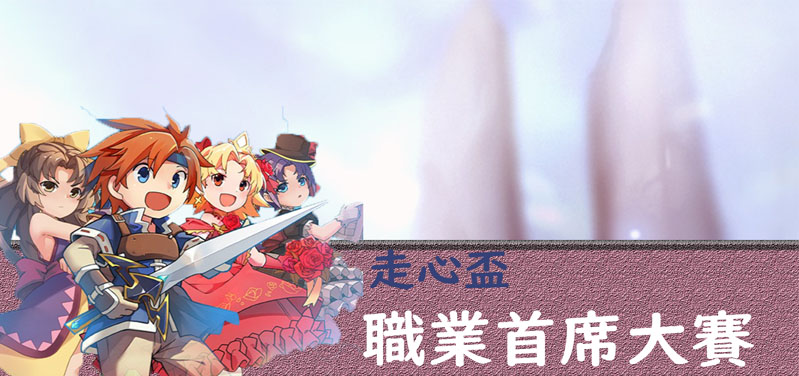
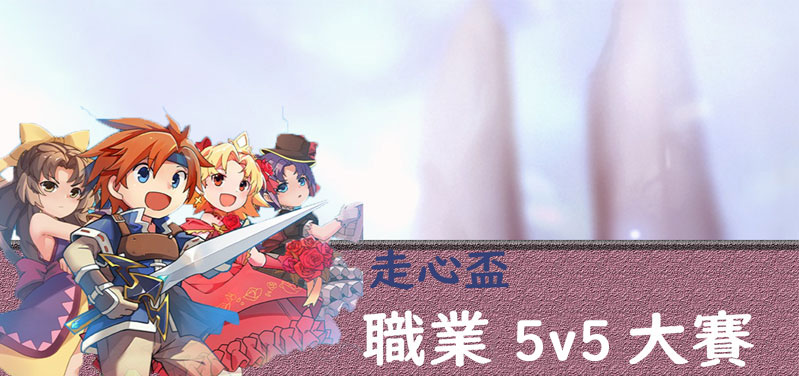
5V5

Changed region(s): [[0.6008, 0.8191, 0.781, 1.0]]

diff --git a/html/projectIntroduction.html b/html/projectIntroduction.html
@@ -64,23 +64,29 @@
 
         <!-- 獎項 -->
         <div class="container borderSunglow text-left mt-5">
-            <h3 class="textSize30">走心盃職業賽流程</h3>
+            <h3 class="textSize30">⾛⼼盃55賽</h3>
         </div>
 
         <div class="container mt-3 table-responsive">
             <p>
-                <h2> 比賽場地：8s競技場</h2>
+                <h2> 比賽場地：7s競技場</h2>
                 <br><br>
-                <h2> 比賽為雙淘汰賽一場勝負，冠軍賽則為三戰兩勝
-                    （雙敗淘汰賽負者出局，但負一場後並未被淘汰，只是跌入負者組，在負者組再負者(即總共已負兩場)才被淘汰。）</h2>
+                <h2> 輕量級-111年10⽉29⽇（六）晚上20：30報到9：00開打 <br><br>
+
+                    重量級-111年10⽉30⽇（⽇）晚上18：30報到7：00開打</h2>
                 <br><br>
-                <h2> 9月17日（六） </h2>
+                比賽⽅式將會以最終參賽⼈數⽽決定，單循環或雙淘汰單場決勝做為主要安排
                 <br><br>
+                比賽⽅式
+                此次賽事將為單循環賽，及每隊將和各隊都有⼀次比賽，最後得分最多為冠軍
+                若有兩隊同分即加賽，會由網站形式公佈哪隊先打
+                <br><br>
+
                 <a class="btn btn-success"
-                    href="https://www.figma.com/file/G7tva6rEoFx3MT1eyduDBk/%E8%B5%B0%E5%BF%83%E7%9B%83%E9%A6%96%E5%B8%AD%E5%A4%A7%E8%B3%BD">即時賽程及分組請點我</a>
+                    href="https://www.figma.com/file/EuMyVpXEaL9vz35Me3ty3g/%E8%B5%B0%E5%BF%83%E7%9B%835V5-%E5%A4%A7%E8%B3%BD">即時賽程及分組請點我</a>
             </p>
 
-            <h3 class="mt-2 text-danger">晚上18：30輕量組職業開始報到19：00開始比賽</h3>
+            <h3 class="mt-2 text-danger"></h3>
             <table class="table table-striped table-hover">
                 <tr class="fw-bolder sunglowColor">
                     <th>時間</th>
@@ -88,32 +94,32 @@
                 </tr>
                 <tr>
                     <td>19：00</td>
-                    <td>第一場輕量特級廚師競賽</td>
+                    <td></td>
                 </tr>
                 <tr>
                     <td>19：17</td>
-                    <td>第二場輕量騎士</td>
+                    <td></td>
                 </tr>
                 <tr>
                     <td>19：35</td>
-                    <td>5第三場輕量劍士</td>
+                    <td></td>
                 </tr>
                 <tr>
                     <td>19：55</td>
-                    <td>第四場輕量傳教</td>
+                    <td></td>
                 </tr>
                 <tr>
                     <td>20：35</td>
-                    <td>第五場輕量重裝混合賽</td>
+                    <td></td>
                 </tr>
                 <tr>
                     <td>21：10</td>
-                    <td>第六場輕量亂鬥賽</td>
+                    <td></td>
                 </tr>
             </table>
 
 
-            <h3 class="mt-3 text-danger">晚上21：30重量級選手開始報到</h3>
+            <h3 class="mt-3 text-danger"></h3>
             <table class="table table-striped table-hover">
                 <tr class="fw-bolder sunglowColor">
                     <th>時間</th>
@@ -121,35 +127,35 @@
                 </tr>
                 <tr>
                     <td>22：02</td>
-                    <td>第七場重量護士長</td>
+                    <td></td>
                 </tr>
                 <tr>
                     <td>22：10</td>
-                    <td>第八場重量傳教</td>
+                    <td></td>
                 </tr>
                 <tr>
                     <td>22：22</td>
-                    <td>第九場重量法師</td>
+                    <td></td>
                 </tr>
                 <tr>
                     <td>22：32</td>
-                    <td>第十場重量弓手</td>
+                    <td></td>
                 </tr>
                 <tr>
                     <td>22：47</td>
-                    <td>第11場重量戰斧</td>
+                    <td></td>
                 </tr>
                 <tr>
                     <td>22：57</td>
-                    <td>第12場重量裝重裝混合賽</td>
+                    <td></td>
                 </tr>
                 <tr>
                     <td>23：17</td>
-                    <td>第13場上忍決鬥賽</td>
+                    <td></td>
                 </tr>
                 <tr>
                     <td>23：30</td>
-                    <td>第14場重量亂鬥</td>
+                    <td></td>
                 </tr>
 
             </table>
@@ -170,15 +176,9 @@
             <h3 class="textSize30">賽事抽籤影片</h3>
         </div>
         <div class="container mt-3">
-            <div class="videobox">
-                <iframe width="560%" height="315" src="https://www.youtube.com/embed/j3U2ZmLJpoQ"
-                    title="YouTube video player" frameborder="0"
-                    allow="accelerometer; autoplay; clipboard-write; encrypted-media; gyroscope; picture-in-picture"
-                    allowfullscreen></iframe>
-            </div>
-            <div class="videobox">
 
-                <iframe width="560" height="315" src="https://www.youtube.com/embed/LgY0rwKMIfc"
+            <div class="videobox">
+                <iframe width="560" height="315" src="https://www.youtube.com/embed/6-zQSdGiZ9c"
                     title="YouTube video player" frameborder="0"
                     allow="accelerometer; autoplay; clipboard-write; encrypted-media; gyroscope; picture-in-picture"
                     allowfullscreen></iframe>
@@ -186,24 +186,13 @@
 
             <div class="videobox">
 
-                <iframe width="560" height="315" src="https://www.youtube.com/embed/FdKhW-sQ5R8"
+                <iframe width="560" height="315" src="https://www.youtube.com/embed/JrZ0BpQNL64-sQ5R8"
                     title="YouTube video player" frameborder="0"
                     allow="accelerometer; autoplay; clipboard-write; encrypted-media; gyroscope; picture-in-picture"
                     allowfullscreen></iframe>
 
             </div>
-            <div class="videobox">
-                <iframe width="560" height="315" src="https://www.youtube.com/embed/oWwQXQ_8gvw"
-                    title="YouTube video player" frameborder="0"
-                    allow="accelerometer; autoplay; clipboard-write; encrypted-media; gyroscope; picture-in-picture"
-                    allowfullscreen></iframe>
-            </div>
-            <div class="videobox">
-                <iframe width="560" height="315" src="https://www.youtube.com/embed/PWoGCm0HgVk"
-                    title="YouTube video player" frameborder="0"
-                    allow="accelerometer; autoplay; clipboard-write; encrypted-media; gyroscope; picture-in-picture"
-                    allowfullscreen></iframe>
-            </div>
+
         </div>
 
 

diff --git a/index.html b/index.html
@@ -5,7 +5,7 @@
     <meta charset="UTF-8">
     <meta http-equiv="X-UA-Compatible" content="IE=edge">
     <meta name="viewport" content="width=device-width, initial-scale=1.0">
-    <title>走心盃 職業首席大賽</title>
+    <title>走心盃 5 VS 5 大賽</title>
     <link rel="stylesheet" href="./css/index.css">
     <link rel="stylesheet" href="./lib/bootstrap/css/bootstrap.css">
     <link rel="stylesheet" href="./lib/bootstrap/css/bootstrap.min.css">
@@ -52,7 +52,7 @@
                 </li>
                 <li class="nav-item">
                     <a class="nav-link navfont px-4"
-                        href="https://docs.google.com/forms/d/e/1FAIpQLSfQnsEIUi2qO5f0UNOMjTY9jq8mQUhab7iPeKUfYdG9giGE2g/viewform">線上報名</a>
+                        href="https://docs.google.com/forms/d/e/1FAIpQLSfawmy9RN3yRqRHipKo6kn46wqKlViQejEdh8KLbz_3dxCOsA/viewform">線上報名</a>
                 </li>
             </ul>
         </div>
@@ -70,7 +70,7 @@
                 </div>
                 <div data-aos="zoom-in-down" class="col-sm-12 text-white text-center mb-3 shandowDark">
                     <h1></h1>
-                    <h1 class="">走心盃 職業首席大賽</h1>
+                    <h1 class="">走心盃 5 VS 5大賽</h1>
                 </div>
                 <div class="text-white text-center" id="jumbotronBackgroundP">
                     <p class="text-center"></p>
@@ -79,7 +79,7 @@
                 </div>
                 <div data-aos="zoom-out-up" class="text-white text-center mt-3">
                     <a class="btn text-black blueSapphireColor borderR15"
-                        href="https://docs.google.com/forms/d/e/1FAIpQLSfQnsEIUi2qO5f0UNOMjTY9jq8mQUhab7iPeKUfYdG9giGE2g/viewform"
+                        href="https://docs.google.com/forms/d/e/1FAIpQLSfawmy9RN3yRqRHipKo6kn46wqKlViQejEdh8KLbz_3dxCOsA/viewform"
                         id="mainJoinButton">立即報名</a>
                     <!-- <button class="btn text-white blueSapphireColor borderR15" type="button"
                     id="mainJoinButton">立即報名</button> -->
@@ -122,19 +122,19 @@
                             <p class="text-white py-2">文本文字</p>
                         </li>
                         <li>
-                            <p class="float-right">9/5<span class="fw-bold text-dark ps-3">開始報名</span></p>
+                            <p class="float-right">10/1<span class="fw-bold text-dark ps-3">開始報名</span></p>
                             <p class="text-white py-2">文本文字</p>
                         </li>
                         <li>
-                            <p class="float-right">9/15<span class="fw-bold text-dark ps-3">報名截止</span></p>
+                            <p class="float-right">10/20<span class="fw-bold text-dark ps-3">報名截止</span></p>
                             <p class="text-white py-2">文本文字</p>
                         </li>
                         <li>
-                            <p class="float-right">9/16<span class="fw-bold text-dark ps-3">分組抽籤</span></p>
+                            <p class="float-right">10/29<span class="fw-bold text-dark ps-3">輕量級/span></p>
                             <p class="text-white py-2">文本文字</p>
                         </li>
                         <li>
-                            <p class="float-right">9/17<span class="fw-bold text-dark ps-3">決賽開始日期</span></p>
+                            <p class="float-right">10/30<span class="fw-bold text-dark ps-3">重量級</span></p>
                             <p class="text-white py-2">文本文字</p>
                         </li>
 
@@ -175,7 +175,7 @@
             <div class="col-lg-9 col-sm-12 mt-4 px-lg-5 textSize24">
                 <ul>
                     <li>總獎金 _____ 元。</li>
-                    <li>首席職業最高榮譽</li>
+                    <li>最高榮譽</li>
                     <li>勝利的光環</li>
                 </ul>
             </div>

diff --git a/html/contestMethod.html b/html/contestMethod.html
@@ -76,26 +76,51 @@
             <h3 class="pt-3 pb-3 textSize30">規則內容</h3>
             <p>比賽規則
                 <br><br>
-                比賽方式將會以最終參賽人數而決定，單淘汰三戰兩勝或雙淘汰單場決勝做為主要安排
+                ⼀、場上最多三隻魔寵，且寵物不重複（ex、熊哥、雷狗、南瓜妹、露比、陰影）
                 <br><br>
 
-                一、比賽組別若人數過少將取消此組別的賽事-表單未填詳細者認定報名失敗
+                ⼆、禁⽌寵物使⽤變⾝卡、⼈物禁⽌使⽤奇美拉、⿊暗麗、雛鳳的變⾝卡。
                 <br><br>
 
-                二、比賽皆禁止使用各種免死娃娃、禁止喝水，可使用變身卡，但是禁止使用奇美拉及暗黑春麗變身卡⚠若使用則禁止開賽，堅持開賽直接判輸
+                三、禁⽌喝⽔、禁⽌使⽤替⾝娃娃、免死娃娃等道具。
                 <br><br>
 
-                三、寵物禁止使用特殊技能（ex.氣功蛋、迅雷衝擊、蟹毒蟲瘴），其餘不限制
+                四、職業不重複
                 <br><br>
 
-                四、參賽等級勿超過報名組別之等級上限ex報名109⬇，若比賽時超過109等則判定輸，寵物等級如同ex報名109⬇則不可超過109，報名110⬆則寵物無上限
+                五、候補⼈員為該隊伍第六⼈，可在不同場次變換上場⼈員，可報重複職業做候補，但場上⼈
+                員不可同職業
                 <br><br>
 
-                五、有違規上述規則，被禁賽會直接判輸將不退還報名費用
+                六、寵死可換寵，但必須維持場上寵不重複，及不超過三隻魔寵為原則，其餘均可
+                <br><br>
+
+                七、各隊伍『務必』派⼀位代表同主辦連絡，若未聯絡則視同未報名
+                <br><br>
+
+                八、各組參賽等級（包括寵物）不可超過該組上限
+                <br><br>
+
+                以上若有違規直接判輸
             </p>
         </div>
 
+        <!-- 活動及目的 -->
+        <div class="container borderBlueSapphire mt-3">
+            <h3 class="pt-3 pb-3 textSize30">比賽方式</h3>
+            <p>
+                <br><br>
+                此次賽事將為單循環賽，及每隊將和各隊都有⼀次比賽，最後得分最多為冠軍
+                若有兩隊同分即加賽，會由網站形式公佈哪隊先打                
+                <br><br>
 
+                注意事項
+                主辦單位保有隨時修改終⽌本活動之權利，若有任何變更內容或詳細注意事項將另⾏通知，請
+                各位參賽⼈員密切注意
+                <br><br>
+
+            </p>
+        </div>
 
         <!-- 獎項 -->
         <div class="container borderSunglow text-left mt-5">
@@ -104,9 +129,9 @@
 
         <div class="container mt-3 table-responsive">
             <p>
-                該組冠軍將榮得該組整組報名費為獎金，並且主辦會在1s替冠軍🏆擺寵宣傳一週
+                獎項整理中
                 <br><br>
-                ex該組最後比賽人數為16人，冠軍獎金則16*58888魔幣
+                頒獎時間會另外公布在網站及LINE群
             </p>
             <table class="table table-striped table-hover">
                 <tr class="fw-bolder sunglowColor">

diff --git a/html/fileDownload.html b/html/fileDownload.html
@@ -48,7 +48,7 @@
                 </li>
                 <li class="nav-item">
                     <a class="nav-link navfont px-4"
-                        href="https://docs.google.com/forms/d/e/1FAIpQLSfQnsEIUi2qO5f0UNOMjTY9jq8mQUhab7iPeKUfYdG9giGE2g/viewform">線上報名</a>
+                        href="https://docs.google.com/forms/d/e/1FAIpQLSfawmy9RN3yRqRHipKo6kn46wqKlViQejEdh8KLbz_3dxCOsA/viewform">線上報名</a>
                 </li>
             </ul>
         </div>
@@ -74,11 +74,7 @@
                 <div class="container mt-3 table-responsive">
                     <p>
 
-                        該組冠軍將榮得該組整組報名費為獎金
-                        <br><br>
-                        並且主辦會在1s替冠軍🏆擺寵宣傳一週
-                        <br><br>
-                        ex該組最後比賽人數為16人，冠軍獎金則16*58888魔幣
+                        獎項整理中
                         <br><br>
                         頒獎時間會另外公布在網站及LINE群
                     </p>

diff --git a/html/onlineRegistration.html b/html/onlineRegistration.html
@@ -47,7 +47,7 @@
             </li>
             <li class="nav-item">
                 <a class="nav-link navfont px-4"
-                    href="https://docs.google.com/forms/d/e/1FAIpQLSfQnsEIUi2qO5f0UNOMjTY9jq8mQUhab7iPeKUfYdG9giGE2g/viewform">線上報名</a>
+                    href="https://docs.google.com/forms/d/e/1FAIpQLSfawmy9RN3yRqRHipKo6kn46wqKlViQejEdh8KLbz_3dxCOsA/viewform">線上報名</a>
             </li>
         </ul>
     </div>
@@ -71,7 +71,7 @@
     <div class="container borderBlueSapphire mt-3">
         <h3 class="pt-3 pb-3 textSize30">報名表單</h3>
         <a
-            href="https://docs.google.com/forms/d/e/1FAIpQLSfQnsEIUi2qO5f0UNOMjTY9jq8mQUhab7iPeKUfYdG9giGE2g/viewform">點我進入GOOGLE表單</a>
+            href="https://docs.google.com/forms/d/e/1FAIpQLSfawmy9RN3yRqRHipKo6kn46wqKlViQejEdh8KLbz_3dxCOsA/viewform">點我進入GOOGLE表單</a>
         </p>
     </div>
 
